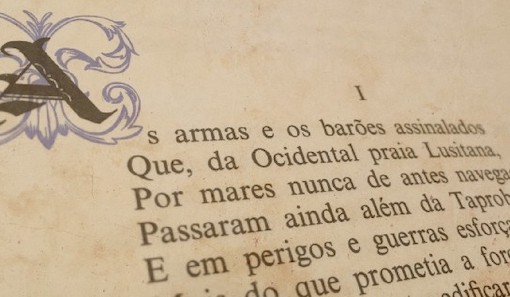
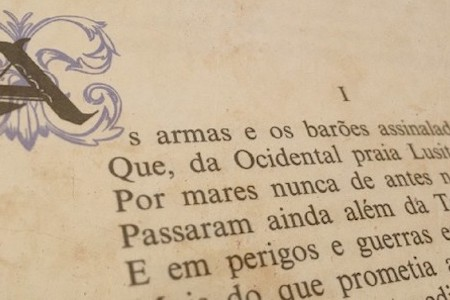
Update images

diff --git a/index.html b/index.html
@@ -15,7 +15,6 @@
     .my-social { margin: 4px; }
     .my-btn { width: 22%; }
     .my-height { height: 112px; }
-    .my-img { height: 200px; }
     .my-title { background-color: rgba(0,0,0,0.12); width: 100%; }
     .my-shadow { position: absolute; width: 120px; height: 120px; top: 0; left: -60px; border-radius: 50%; box-shadow: inset 0px 0px 10px rgba(0,0,0,0.2); }
 
@@ -101,7 +100,7 @@
       <div class="col s12 m4">
         <div class="card blue-grey darken-2">
           <div class="card-image">
-            <img class="my-img" src="imgs/galaxy-convnet.jpg">
+            <img src="imgs/galaxy-convnet.jpg">
             <span class="card-title">Galaxy ConvNet</span>
           </div>
           <div class="card-content white-text my-height">
@@ -115,8 +114,8 @@
       </div>
       <div class="col s12 m4">
         <div class="card blue-grey darken-2">
-          <div class="card-image my-img-red">
-            <img class="my-img" src="imgs/pln.pt.jpg" />
+          <div class="card-image">
+            <img src="imgs/pln.pt.jpg" />
             <span class="card-title">pln.pt</span>
           </div>
           <div class="card-content white-text my-height">
@@ -131,7 +130,7 @@
       <div class="col s12 m4">
         <div class="card blue-grey darken-2">
           <div class="card-image">
-            <img class="my-img" src="imgs/y-space.jpg" />
+            <img src="imgs/y-space.jpg" />
             <span class="card-title">Y-Space</span>
           </div>
           <div class="card-content white-text my-height">
@@ -149,7 +148,7 @@
       <div class="col s12 m4">
         <div class="card blue-grey darken-2">
           <div class="card-image">
-            <img class="my-img" src="imgs/p5stack.jpg" />
+            <img src="imgs/p5stack.jpg" />
             <span class="card-title">App::p5stack</span>
           </div>
           <div class="card-content white-text my-height">
@@ -163,7 +162,7 @@
       <div class="col s12 m4">
         <div class="card blue-grey darken-2">
           <div class="card-image">
-            <img class="my-img" src="imgs/pulsars.jpg" />
+            <img src="imgs/pulsars.jpg" />
             <span class="card-title">Predicting Pulsars</span>
           </div>
           <div class="card-content white-text my-height">
@@ -178,7 +177,7 @@
       <div class="col s12 m4">
         <div class="card blue-grey darken-2">
           <div class="card-image">
-            <img class="my-img" src="imgs/101.jpg" />
+            <img src="imgs/101.jpg" />
             <span class="card-title">The 101 Series</span>
           </div>
           <div class="card-content white-text my-height">
@@ -195,7 +194,7 @@
       <div class="col s12 m4">
         <div class="card blue-grey darken-2">
           <div class="card-image">
-            <img class="my-img" src="imgs/sunspots.jpg" />
+            <img src="imgs/sunspots.jpg" />
             <span class="card-title">Sunspots Estimator</span>
           </div>
           <div class="card-content white-text my-height">
@@ -209,7 +208,7 @@
       <div class="col s12 m4">
         <div class="card blue-grey darken-2">
           <div class="card-image">
-            <img class="my-img" src="imgs/exopl.jpg" />
+            <img src="imgs/exopl.jpg" />
             <span class="card-title">exopl</span>
           </div>
           <div class="card-content white-text my-height">
@@ -223,7 +222,7 @@
       <div class="col s12 m4">
         <div class="card blue-grey darken-2">
           <div class="card-image">
-            <img class="my-img" src="imgs/qaptnet.jpg" />
+            <img src="imgs/qaptnet.jpg" />
             <span class="card-title">qaptnet</span>
           </div>
           <div class="card-content white-text my-height">
